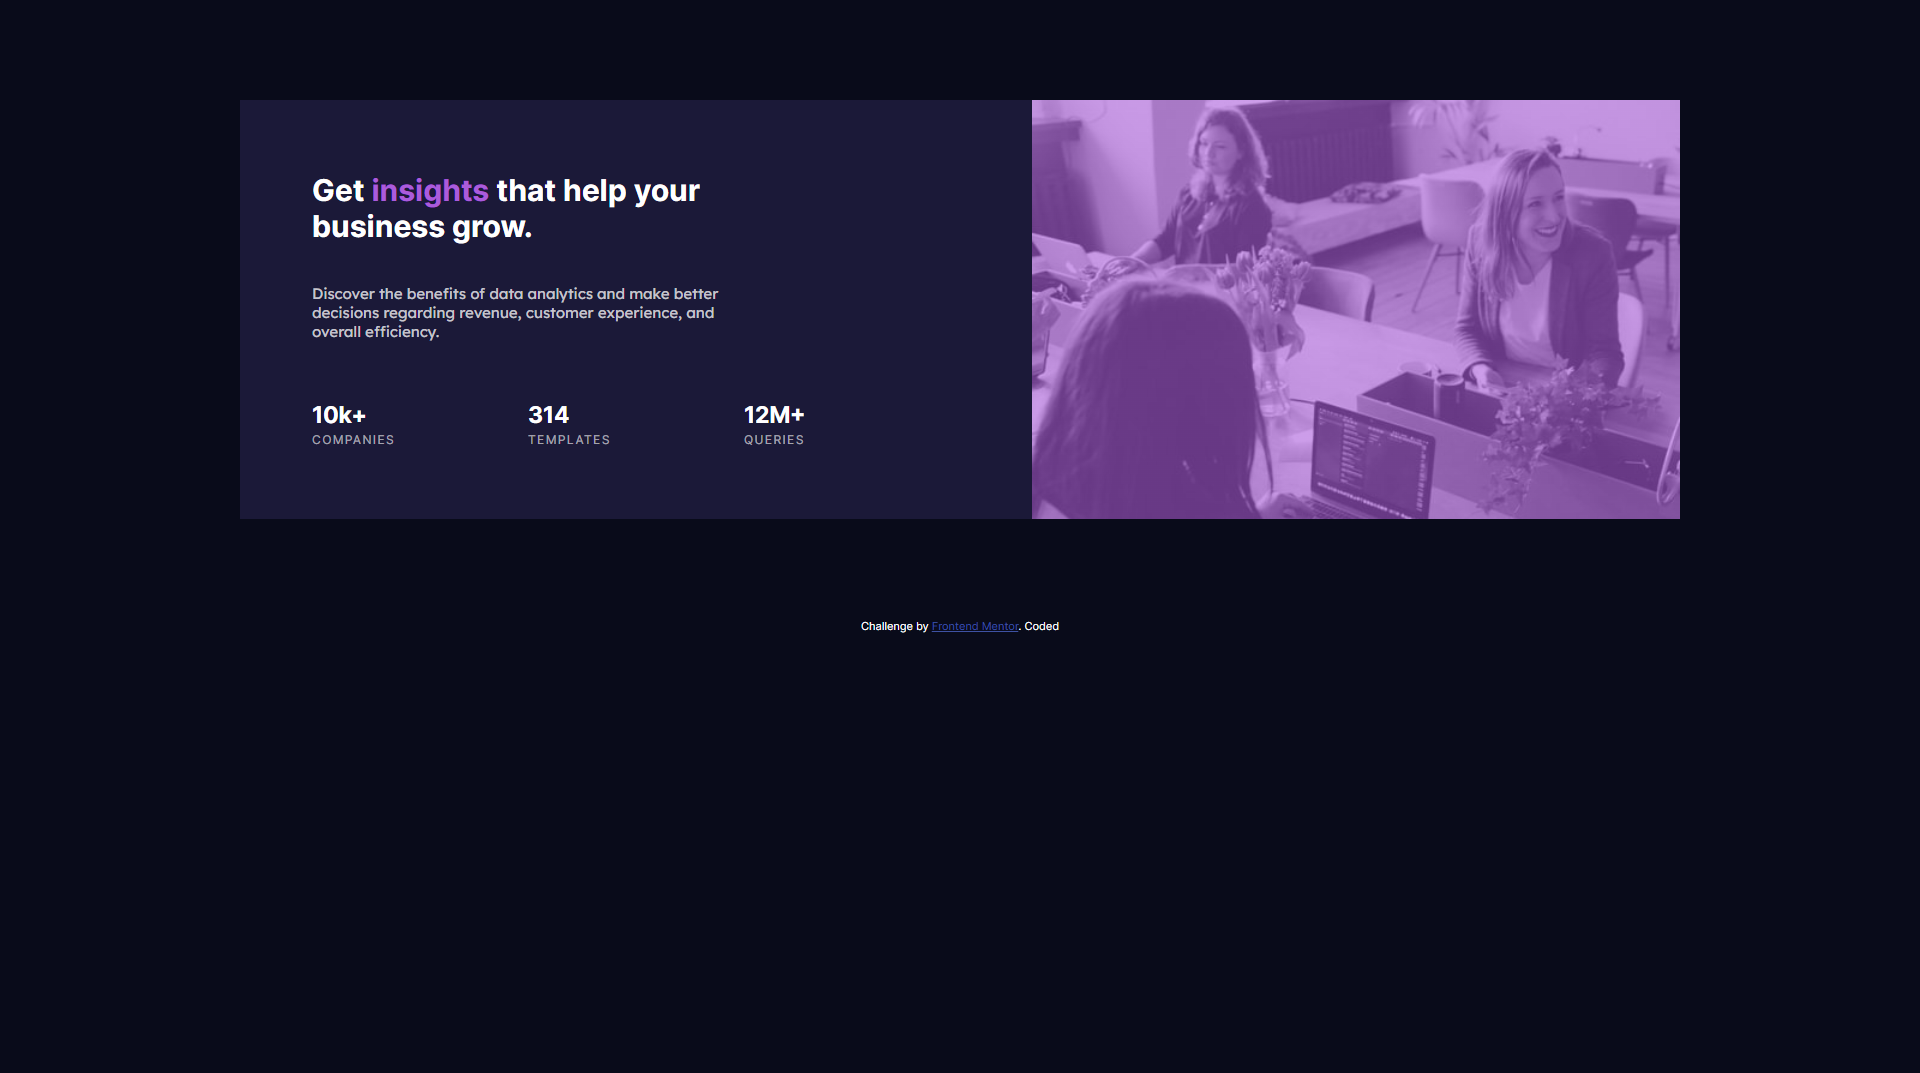
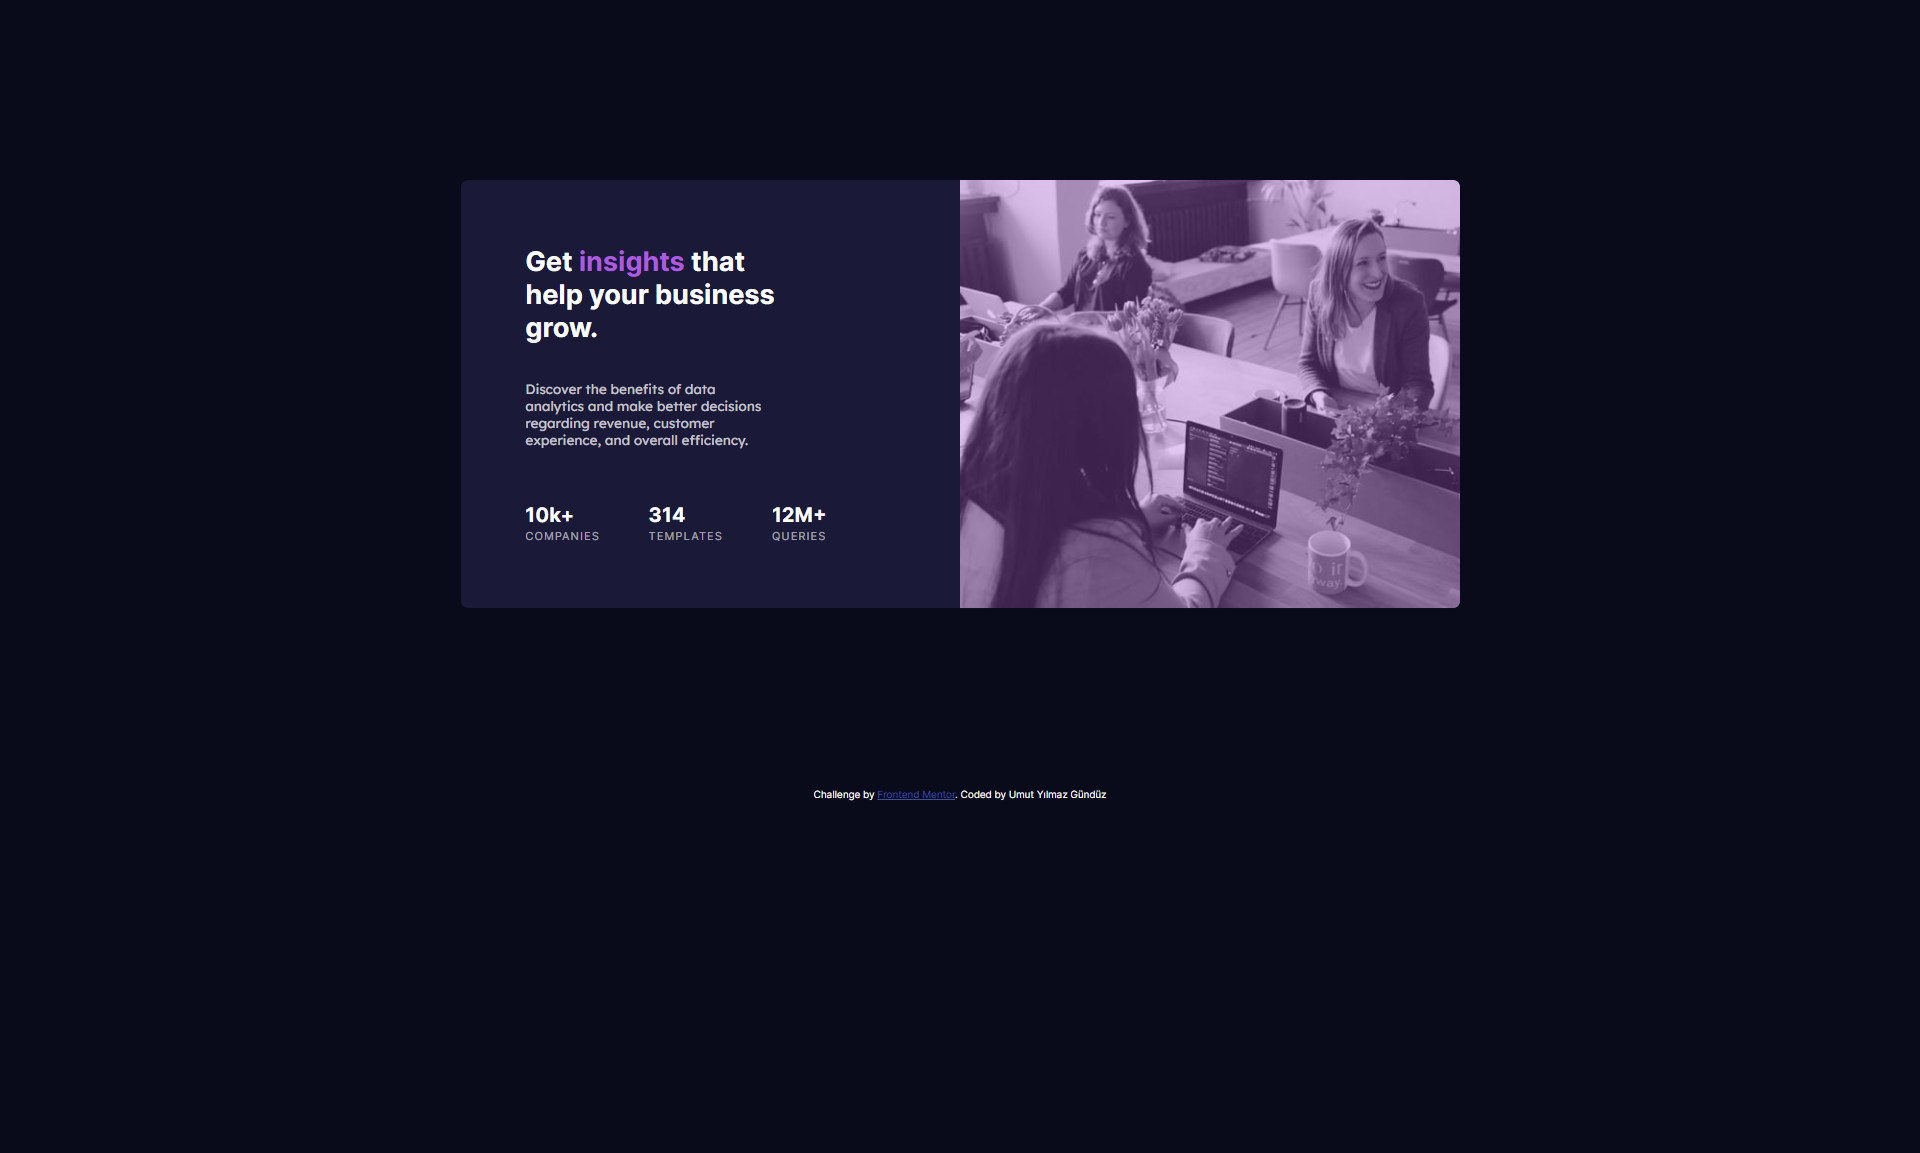
adjustments added, mobile view still needed

Changed region(s): [[0.125, 0.0923, 0.875, 0.5536], [0.4375, 0.6766, 0.5625, 0.7074]]

diff --git a/style.css b/style.css
@@ -3,6 +3,10 @@
     padding: 0;
     box-sizing: border-box;
 }
+
+html {
+    font-size: 62.5%;
+}
 .attribution {
     font-size: 11px;
     text-align: center;
@@ -15,13 +19,17 @@ body {
     height: 100vh;
     background-color: hsl(233, 47%, 7%);
     color: #fff;
-    font-size: 15px;
+    font-size: 1.5rem;
     font-family: 'Inter', sans-serif;
 }
 .container {
-    width: 1440px;
-    margin: 100px auto;
-    display: flex;
+    max-width: 111rem;
+    margin: 20rem auto;
+    display: grid;
+
+    grid-template-columns: 1fr 1fr;
+    border-radius: 8px;
+    overflow: hidden;
 }
 
 .insight-text {
@@ -30,21 +38,16 @@ body {
 
 .card-container {
     background-color: hsl(244, 38%, 16%);
-    flex: 1;
-    padding: 72px;
+    padding: 7.2rem;
 }
 
 h1 {
-    margin-bottom: 40px;
+    margin-bottom: 4rem;
     max-width: 70%;
 }
 
-.img {
-    flex: 1;
-}
-
 .description {
-    margin-bottom: 60px;
+    margin-bottom: 6rem;
     color: hsla(0, 0%, 100%, 0.75);
     max-width: 65%;
     font-family: 'Lexend Deca', sans-serif;
@@ -57,17 +60,21 @@ h1 {
 
 .feature p {
     text-transform: uppercase;
-    font-size: 12px;
+    font-size: 1.2rem;
     letter-spacing: 1.4px;
-    margin-top: 4px;
+    margin-top: 0.4rem;
     color: hsla(0, 0%, 100%, 0.6);
 }
 
+.img-box {
+    background-color: #ab5cdb;
+}
+
 .img {
-    background-image: linear-gradient(
-            hsl(277, 64%, 61%, 0.6),
-            hsl(277, 64%, 61%, 0.6)
-        ),
-        url(images/image-header-desktop.jpg);
+    background: url(images/image-header-desktop.jpg);
+    width: 100%;
+    height: 100%;
     background-size: cover;
+    opacity: 0.65;
+    
 }

diff --git a/index.html b/index.html
@@ -50,7 +50,14 @@
                     </div>
                 </div>
             </div>
-            <div class="img"></div>
+            <div class="img-box">
+                <div class="img"></div>
+                <!-- <img
+                    class="img"
+                    src="images/image-header-desktop.jpg"
+                    alt="3 Woman working on the office with computers"
+                /> -->
+            </div>
         </div>
 
         <div class="attribution">
@@ -59,7 +66,7 @@
                 href="https://www.frontendmentor.io?ref=challenge"
                 target="_blank"
                 >Frontend Mentor</a
-            >. Coded
+            >. Coded by Umut Yılmaz Gündüz
         </div>
     </body>
 </html>
